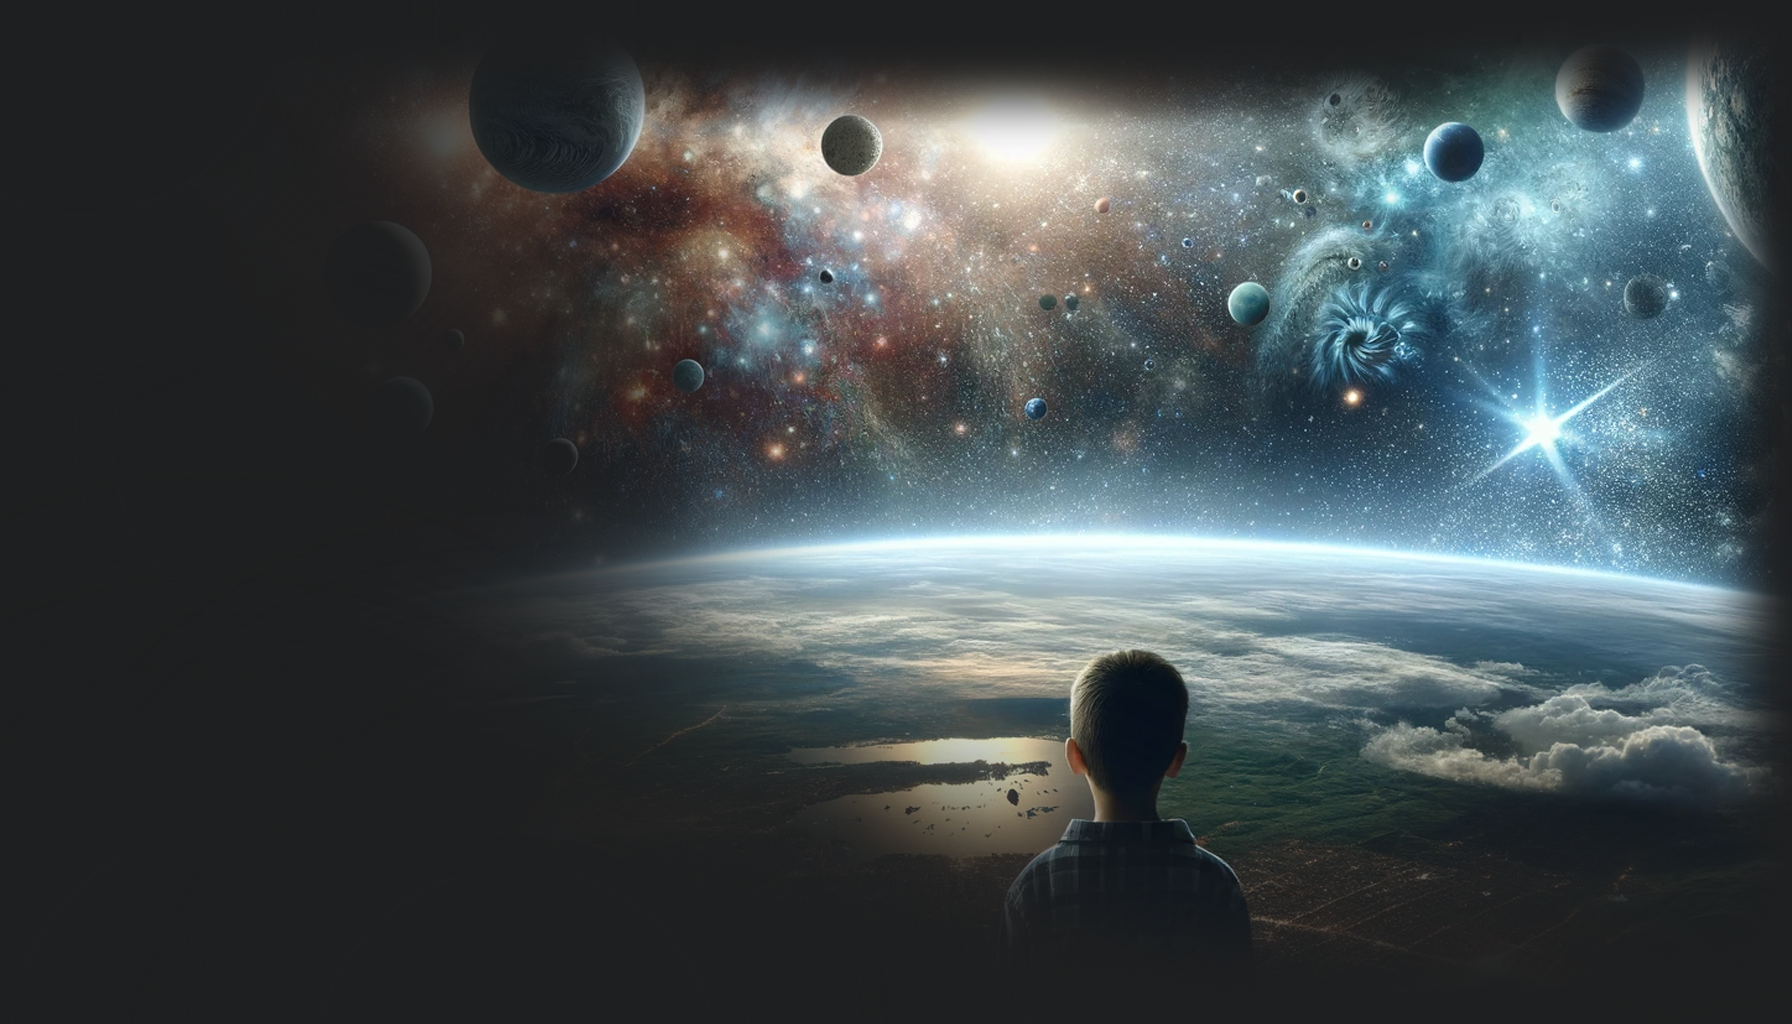
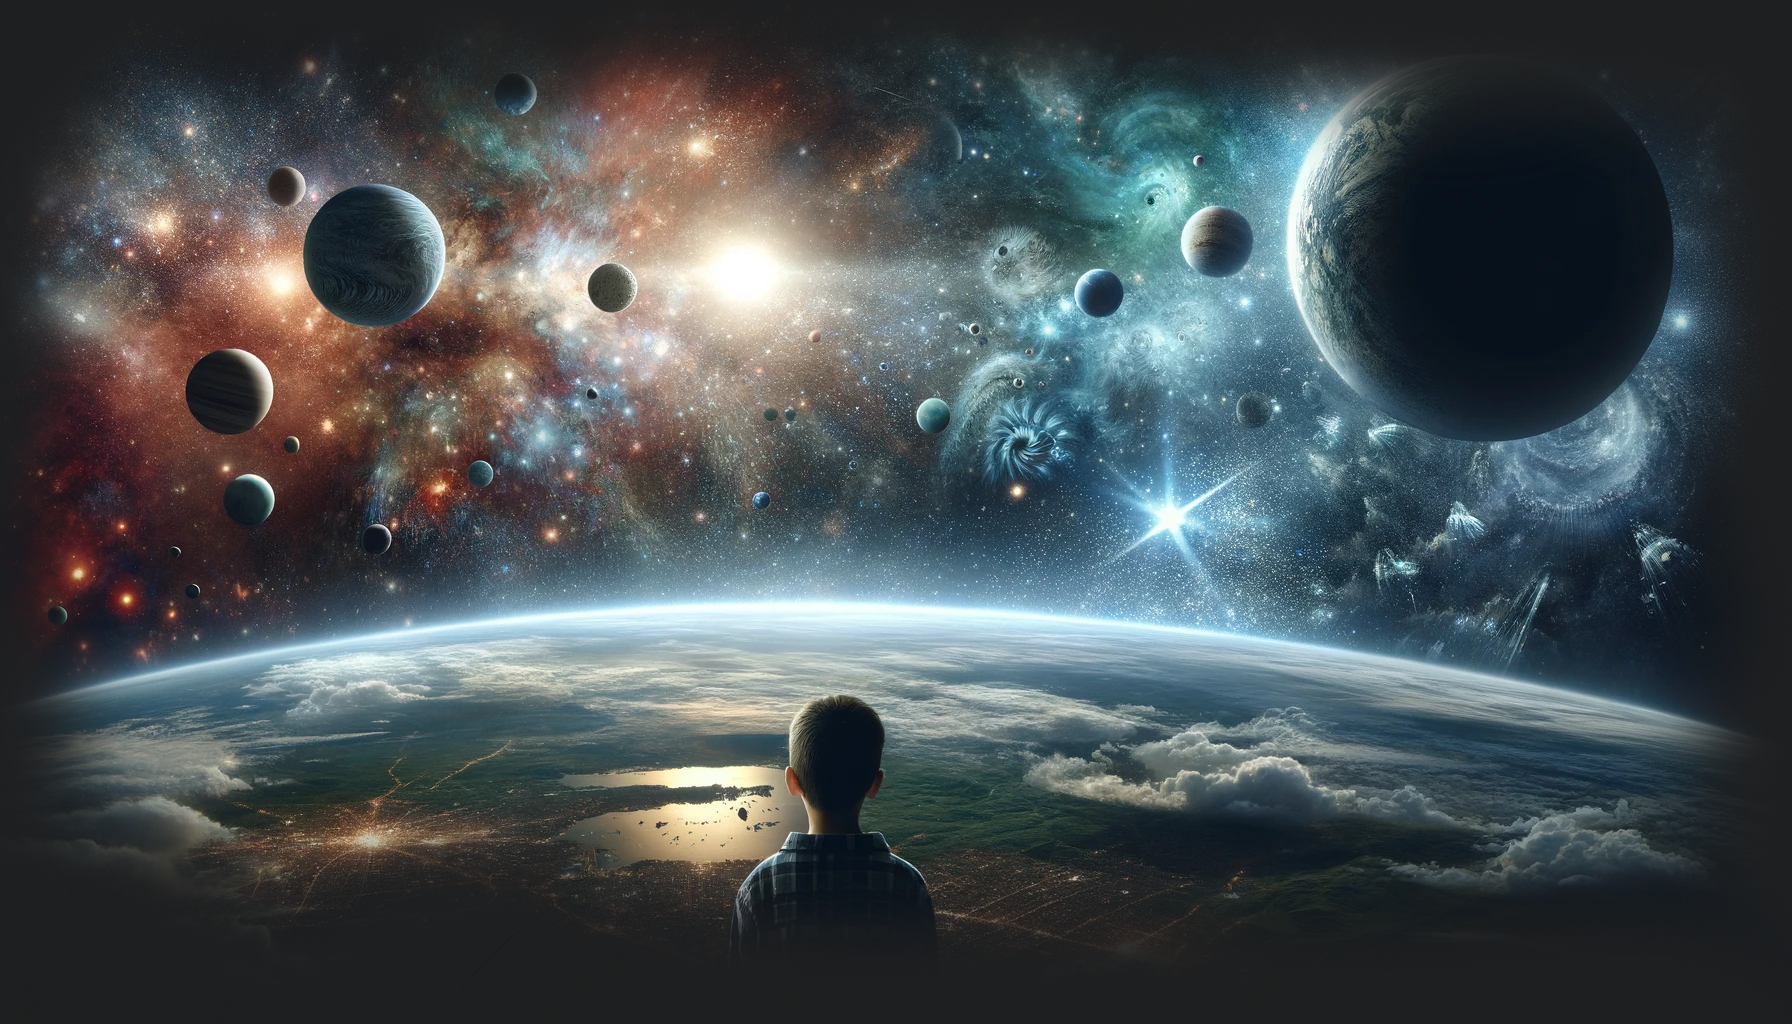
modified:   assets/images/.DS_Store 	modified:   assets/images/heroImage.png 	modified:   assets/style.css 	modified:   index.html

diff --git a/assets/style.css b/assets/style.css
@@ -251,23 +251,25 @@ footer {
     justify-content: center;
     align-items: center;
     width: 100%;
-    height: 80vh;
+    height: 100vh;
     background-image: url('/assets/images/heroImage.png');
     background-repeat: no-repeat;
     background-size: contain;
     background-position: center;
 }
 .heroText {
-    width: 700px;
+    width: 560px;
+    height: 600px;
     display: flex;
     flex-direction: column;
     justify-content: center;
     align-items: center;
     border-radius: 10px;
-    background-color: rgba(255, 255, 255, 0.027);
+    background-color: rgba(0, 0, 0, 0.435);
     backdrop-filter: blur(5px);
     padding: 25px;
     border: #f0f0f0 solid 1px;
+    margin-top: -100px;
     
 }
 
@@ -449,18 +451,21 @@ height: auto;
     width: 80%;
     border: solid 1px #ffffff  ;    
     
+    
 
 }
 #space-flight-finder {
     display: flex;
-    justify-content: space-between;
+    width: 530px;
+    justify-content: space-around;
     align-items: center;
-    gap: 10px;
+    gap: 5px;
     padding: 20px;
     background: linear-gradient(to right, #000000, #363636, #131313);
     border-radius: 10px;
     box-shadow: 0 4px 8px rgba(0, 0, 0, 0.3);
     flex-wrap: wrap;
+    
 }
 
 #space-flight-finder input[type="text"], #space-flight-finder input[type="date"] {
@@ -469,6 +474,7 @@ height: auto;
     border-radius: 5px;
     background-color: #1e1e1e;
     color: #fff;
+    width: 238px;
 }
 
 #space-flight-finder input::placeholder {
@@ -487,6 +493,7 @@ height: auto;
     border-radius: 5px;
     cursor: pointer;
     transition: background-color 0.3s;
+    width: 100%;
 }
 
 #space-flight-finder button:hover {
@@ -513,6 +520,7 @@ select {
     background-color: #1e1e1e;
     color: #fff;
     border: 2px solid #5d5d5d;
+    width: 300px;
 }
 
 /* Enhancing the radio buttons and checkboxes with custom styling */

diff --git a/index.html b/index.html
@@ -59,7 +59,7 @@
                 <!-- Special Accommodations -->
                 <div class="accommodations">
                     <label><input type="checkbox" id="zero-gravity-experience"> Zero Gravity Experience</label>
-                    <label><input type="checkbox" id="spacewalk"> Spacewalk</label>
+                    <label>
                     <label><input type="checkbox" id="mars-rover-tour"> Mars Rover Tour</label>
                 </div>
             
@@ -67,7 +67,7 @@
                 <button id="search-space-flights">Find Space Tour</button>
             </div>
             <div style="display: flex; flex-direction: row; justify-content: start; align-items: center; width:100%; height:70px; margin-bottom: -20px;" > <p>Powered By  </p> <img style="width: 8%; height: auto; margin-left: 10px;" src="/assets/images/nasalog.png" alt=""></div>
-                <p class="sectionDescription" style="font-size: 1.2em; text-align: Start !important;">Galactic Getaways offers the best vacation packages in the solar system. From the
+                <p class="sectionDescription" style="font-size: 1.2em; text-align: start !important;">Galactic Getaways offers the best vacation packages in the solar system. From the
                     moons of Jupiter to the rings of Saturn, we have it all. Book your next adventure today!</p>
         </div>
 
